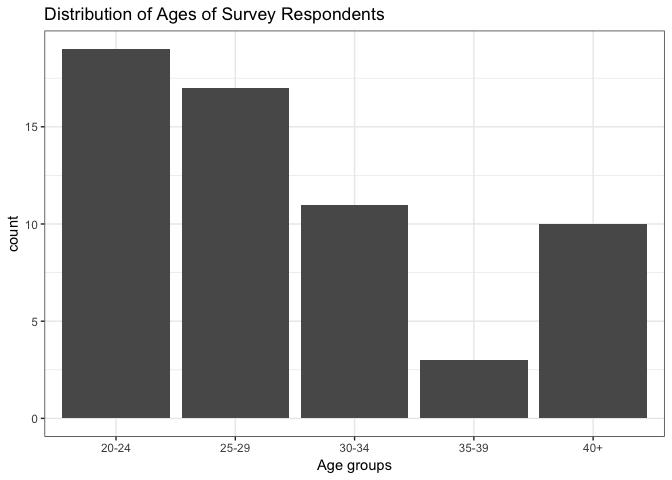
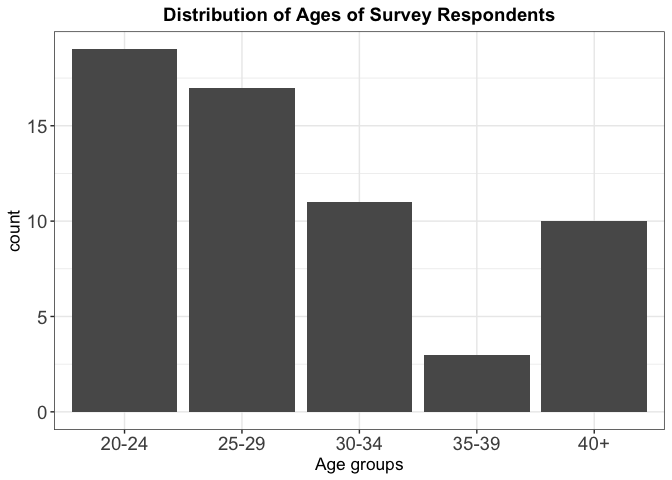
Fix typo; add filter in bar plot; adjust plot title size

diff --git a/Milestone2/Milestone2_EDA.md b/Milestone2/Milestone2_EDA.md
@@ -1,6 +1,6 @@
 Milestone2\_EDA
 ================
-Wilson D., Marcelle C. Kera Y. Heather VT.
+Wilson D., Marcelle C., Kera Y., Heather VT.
 4/5/2019
 
 This dataset is aimed to answer the question “Does a person’s frequency
@@ -61,7 +61,11 @@ summary(tidy_data)
 > 
 > **Q1\_1: How important is being environmentally sustainable to you on
 > a scale from 1-10?**: on average, people rated sustainability as a 7.7
-> initially. **Q2: How often do you generally recycle?**:
+> initially.
+> 
+> **Q2: How often do you generally recycle?**: Most of participants have
+> a good recycling habit: 29 answered “Usually” and 27 answered
+> “Always”. Only 4 other participants recycle sometimes or rarely.
 > 
 > **Q3: What is your age group?**: 60% of the participants are from the
 > younger groups, having 20-29 years old. We had a considerable amount
@@ -83,7 +87,7 @@ summary(tidy_data)
 > on Q5 that they passed the video, and only 9 participants answered NA
 > to Q6\_1. Weird.
 
-# Explanatary Data Analysis
+# Explanatory Data Analysis
 
 ``` r
 tidy_data %>% 
@@ -92,9 +96,11 @@ tidy_data %>%
   facet_grid(~Q4) +
   theme_bw() +
   labs(x = "How often do you recycle? ",
-       title = "Frequency of recycling vs. environmentally-conscious family") +
+       title = "Frequency vs. environmentally-conscious family") +
   scale_fill_discrete(name = "environmentally-conscious family?") +
-  theme(axis.text.x = element_text(angle = 45, hjust = 1))
+  theme(plot.title = element_text(size = 14, face = "bold", hjust = 0.5),
+        axis.text = element_text(size = 9,angle = 45, hjust = 1),
+        axis.title = element_text(size = 10))
 ```
 
 ![](Milestone2_EDA_files/imgs/plot%20family%20vs.%20frequency-1.png)<!-- -->
@@ -103,27 +109,17 @@ tidy_data %>%
 > recycling habit whether or not they live in a
 > environmentally-consicous family. However, if one respondent did not
 > grow up in an environmentally-conscious family then he/she may not
-> recycle at
-    all.
-
-``` r
-tidy_data$Q3
-```
-
-    ##  [1] 20-24 30-34 20-24 30-34 20-24 25-29 30-34 20-24 25-29 20-24 20-24
-    ## [12] 25-29 35-39 20-24 25-29 25-29 35-39 25-29 25-29 25-29 30-34 20-24
-    ## [23] 30-34 30-34 40+   25-29 20-24 40+   25-29 20-24 25-29 25-29 25-29
-    ## [34] 20-24 40+   25-29 30-34 25-29 20-24 30-34 35-39 25-29 20-24 20-24
-    ## [45] 20-24 30-34 20-24 40+   40+   30-34 20-24 25-29 20-24 40+   30-34
-    ## [56] 40+   40+   40+   20-24 40+  
-    ## Levels: 20-24 25-29 30-34 35-39 40+
+> recycle at all.
 
 ``` r
 ggplot(tidy_data, aes(Q3)) +
   geom_histogram(stat="count") +
   labs(x = "Age groups",
        title = "Distribution of Ages of Survey Respondents")+
-  theme_bw() 
+  theme_bw() +
+  theme(plot.title = element_text(size = 14, face = "bold", hjust = 0.5),
+        axis.text = element_text(size = 14),
+        axis.title = element_text(size = 13))
 ```
 
     ## Warning: Ignoring unknown parameters: binwidth, bins, pad
@@ -137,9 +133,9 @@ qplot(tidy_data$Q3, tidy_data$Q1_1, geom="boxplot") +
   labs(x = "Age Group",
        y = "Sustainability Importance") +
   ggtitle("Sustainability Importance vs. Age Group") +
-  theme(plot.title = element_text(size = 14, face = "bold", hjust = 0.5)) +
-  theme(axis.text = element_text(size = 14),
-       axis.title = element_text(size = 13))
+  theme(plot.title = element_text(size = 14, face = "bold", hjust = 0.5),
+        axis.text = element_text(size = 14),
+        axis.title = element_text(size = 13))
 ```
 
 ![](Milestone2_EDA_files/imgs/plot%20age%20group%20vs.%20sustainability%20importance%20before%20watching%20the%20video-1.png)<!-- -->
@@ -160,11 +156,14 @@ tidy_data %>% filter(Q5 %in% 'Have watched') %>%
   ggplot(aes(x = Q1_1, y = Q6_1, color = Q2)) +
   geom_point() +
   geom_jitter() +
-  #facet_grid(.~Q3) +
   labs(x = "Rating before watching the video",
        y = "Rating after watching the video",
-       colour ="Recycling frequency") +
-  theme_bw()
+       colour ="Recycling frequency",
+       title = "Scatter plot of frequency vs ratings") +
+  theme_bw() +
+  theme(plot.title = element_text(size = 14, face = "bold", hjust = 0.5),
+        axis.text = element_text(size = 14),
+        axis.title = element_text(size = 13))
 ```
 
 ![](Milestone2_EDA_files/imgs/unnamed-chunk-1-1.png)<!-- -->
@@ -174,11 +173,14 @@ tidy_data %>% filter(Q5 %in% 'Have watched') %>%
   ggplot(aes(x = Q1_1, y = Q6_1, color = Q3)) +
   geom_point() +
   geom_jitter() +
-  #facet_grid(.~Q3) +
   labs(x = "Rating before watching the video",
        y = "Rating after watching the video",
-       colour ="Age group") +
-  theme_bw()
+       colour ="Age group",
+       title = "Scatter plot of age vs ratings") +
+  theme_bw() +
+  theme(plot.title = element_text(size = 14, face = "bold", hjust = 0.5),
+        axis.text = element_text(size = 14),
+        axis.title = element_text(size = 13))
 ```
 
 ![](Milestone2_EDA_files/imgs/unnamed-chunk-1-2.png)<!-- -->
@@ -195,16 +197,21 @@ tidy_data %>% filter(Q5 %in% 'Have watched') %>%
 p1 <- tidy_data %>% 
   ggplot(aes(Q1_1)) +
   geom_bar(fill = "cyan3") +
-  labs(x = "Rating before watching the video") +
+  ylim(0, 16) +
+  labs(title = "Rating before watching the video", x = "Ratings") +
   theme_bw()
 
 p2 <- tidy_data %>% 
+  filter(Q5 == "Have watched") %>% 
   ggplot(aes(Q6_1)) +
   geom_bar(fill = "pink3") +
-  labs(x = "Rating after watching the video", y = "") +
+  ylim(0, 16) +
+  labs(title = "Rating after watching the video", y = "", x = "Ratings") +
   theme_bw()
 
 grid.arrange(p1, p2, nrow = 1)
 ```
 
 ![](Milestone2_EDA_files/imgs/grouped%20bar-1.png)<!-- -->
+
+> Discussion here.
